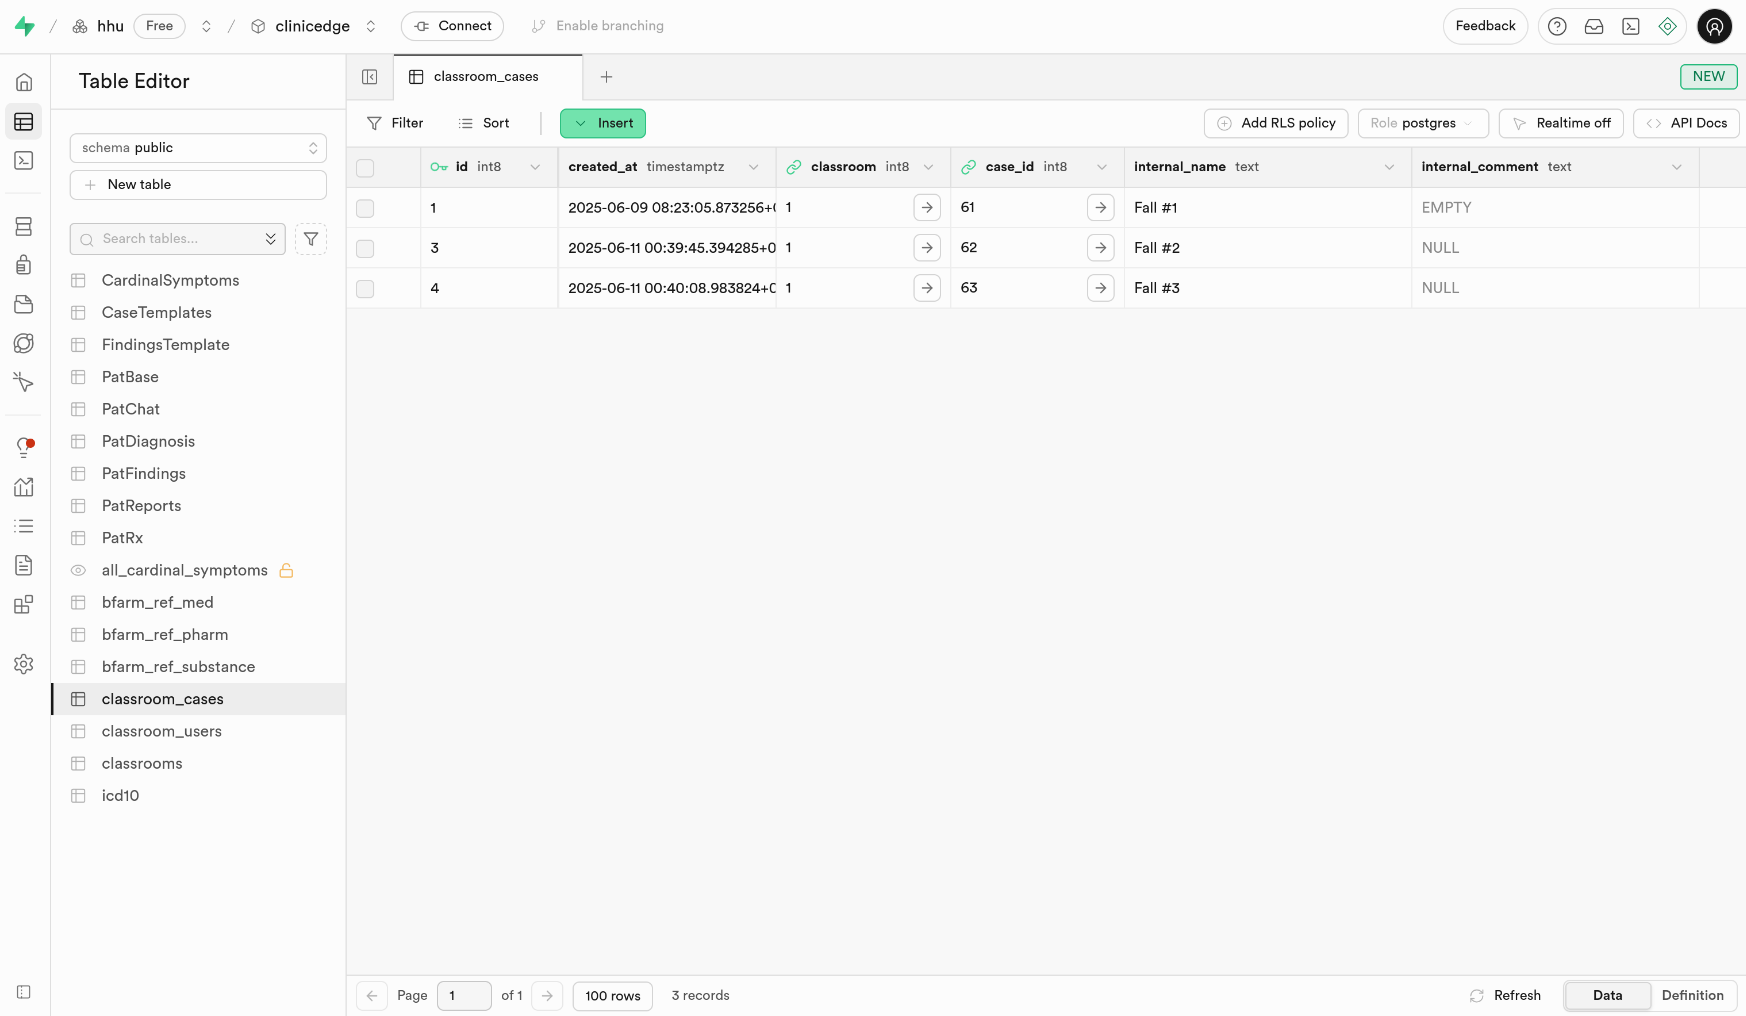
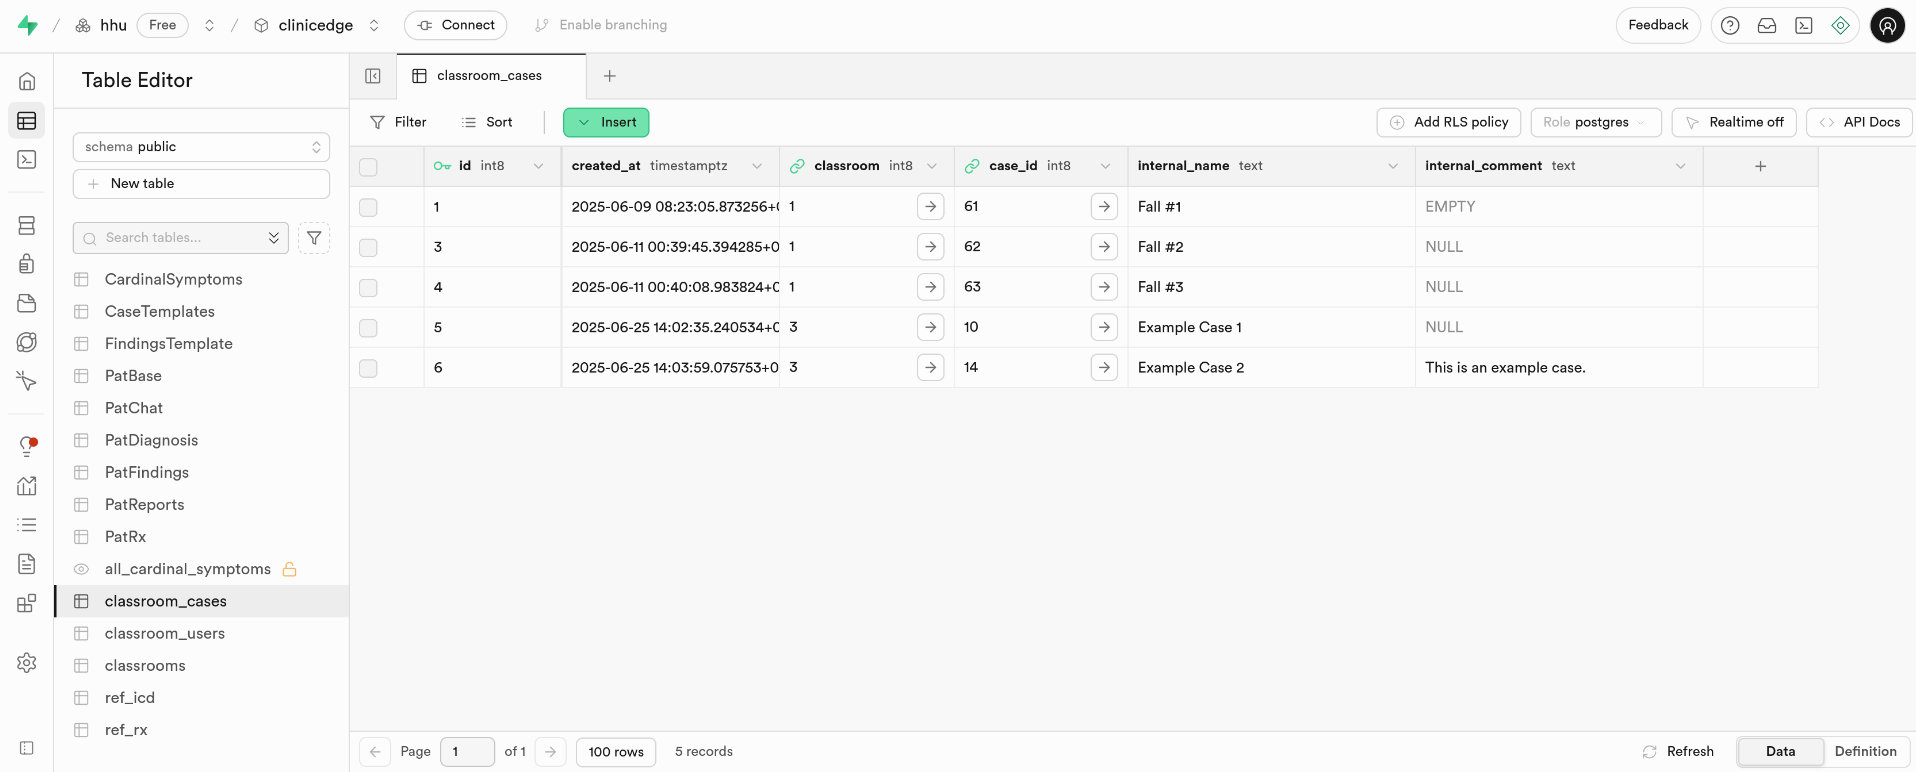
Update classroom content

diff --git a/docs/Tutorials/5_4_tutorial_classroom.md b/docs/Tutorials/5_4_tutorial_classroom.md
@@ -1,0 +1,44 @@
+# How to Create a Classroom
+
+Besides creating individual cases, Clinic Edge offers the functionality to create classrooms. A classroom can be used to group several existing cases, that you want to use for your upcoming seminar. This way, it is more manageable for your students to find the specific cases, they need to work on. You can see in the graphic below, how a classroom is depicted in the case overview in Clinic Edge.
+
+![Classroom example: Hypertensive Schwangerschaftserkrankungen](./Images/5_4_classroom_ce.png)
+
+### 1. Add cases to `CaseTemplates`
+
+- If they do not already exist, add your desired cases to `CaseTemplates` as described [here](./5_1_tutorial_case.md). 
+- Note the `case_id` of the cases, you would like to use. The IDs will be needed it to assign the cases to your classroom.
+
+### 2. Add a Classroom to the Database
+
+- Add a new row in the table `classrooms` in Supabase.
+- Assign a name and set `default` to `TRUE`.
+- The ID will automatically be generated.
+
+The table entry should look like this:
+
+![](./Images/5_4_classroom_example.png)
+
+Your classroom should now appear in the case overview in Clinic Edge.
+
+:::tip
+If you don't want your classroom to be listed in the case overview anymore, you can set `default` to `FALSE`. 
+:::
+
+### 3. Assign Cases to the Classroom
+
+- Add a new row in the table `classroom_cases` for each case you want to add to your classroom.
+- Insert the ID of your classroom in the column `classroom`. You can find the ID in the first column of the `classrooms` table.
+- Add the `case_id` of the case, you want to assign to the classroom.
+- Assign a name to the case. You can take the name from `CaseTemplates` or assign a new name (e.g., if you want to hide the diagnosis).
+- *Optional*: Add a description of the case to `internal_comment`, if you like. The case description will be shown below the name in the case overview in Clinic Edge.
+
+In the following graphic, some examples of table entries are shown:
+
+![](./Images/5_4_classroom_example_cases.png)
+
+### 4. Open Clinic Edge
+
+To check, if your classroom was succesfully added, open Clinic Edge and search for your classroom in the case overview. In the graphic below, you can see our example classroom.
+
+![](./Images/5_4_classroom_example_ce.png)

diff --git a/docs/Database_Structure/3_2_14_classrooms.md b/docs/Database_Structure/3_2_14_classrooms.md
@@ -1,16 +1,27 @@
 # 3.2.14 `classrooms`
 
+The `classrooms` table in Supabase stores the created classrooms, to which several cases can be assigned. To learn how to create a new classroom, see [**Section 5.4 How to Create a Classroom**](../Tutorials/5_4_tutorial_classroom.md).
+
 ## Table Structure
 
 | Column        | Format  | Type   | Description                                                               |
 |---------------|---------|--------|---------------------------------------------------------------------------|
-| `id`     | bigint   | number | Internal ID for each created classroom                               |
-| `name`     | text  | string |  Name of each classroom                                        |
-| `default`   | bool    | boolean   |    |
+| `id`          | bigint  | number | Internal ID for each created classroom                                    |
+| `name`        | text    | string |  Name of each classroom                                                   |
+| `default`     | bool    | boolean| `TRUE`, if classroom is active and should be shown in the case overview; `FALSE`, if classroom is inactive |
 
-![](./Images/3_2_14_classrooms_supabase.jpg)
-
+![](./Images/3_2_14_classrooms_supabase.png)
 
 
 ## Integration within the System
 
+```mermaid
+flowchart TD
+    A["classrooms Table"]:::supabase <-- connected via classroom ID --> B["classroom_cases Table"]:::supabase
+    A <-- connected via classroom ID --> C["classroom_users Table"]:::supabase
+
+classDef UI fill:#30acac,stroke:#000000,stroke-width:1px;
+classDef logic fill:#cc4078,stroke:#000000,stroke-width:1px;
+classDef supabase fill:#40cc8c,stroke:#000000,stroke-width:1px;
+classDef reference fill:#8240cc,stroke:#000000,stroke-width:1px;
+``` 

diff --git a/docs/Database_Structure/3_2_12_classroom_cases.md b/docs/Database_Structure/3_2_12_classroom_cases.md
@@ -1,13 +1,16 @@
 # 3.2.12 `classroom_cases`
 
+The `classroom_cases` table in Supabase stores the cases, which are assigned to classrooms.
+
 ## Table Structure
 
 | Column        | Format  | Type   | Description                                                               |
 |---------------|---------|--------|---------------------------------------------------------------------------|
 | `id`          | bigint  | number | Internal ID for each classroom case                               |
-| `classroom`   | bigint  | number | Contains IDs of the assigned `classrooms`                             |
+| `classroom`   | bigint  | number | Contains IDs of the assigned classrooms                             |
 | `case_id`     | bigint  | number | Contains references to the associated case data in `CaseTemplates`         |
 | `internal_name`| text   | string | Name of each case          |
+| `internal_comment`| text   | string | Description of the case          |
 
 ![](./Images/3_2_12_classroom_cases_supabase.png)
 

diff --git a/docs/Database_Structure/3_2_13_classroom_users.md b/docs/Database_Structure/3_2_13_classroom_users.md
@@ -1,5 +1,7 @@
 # 3.2.13 `classroom_users`
 
+The `classroom_users` table in Supabase stores the IDs of users assigned to a classroom.
+
 ## Table Structure
 
 | Column        | Format  | Type   | Description                                                               |
@@ -9,7 +11,6 @@
 | `userid`   | text    | string   | ID of each user          |
 
 ![]()
-
 
 
 ## Integration within the System
